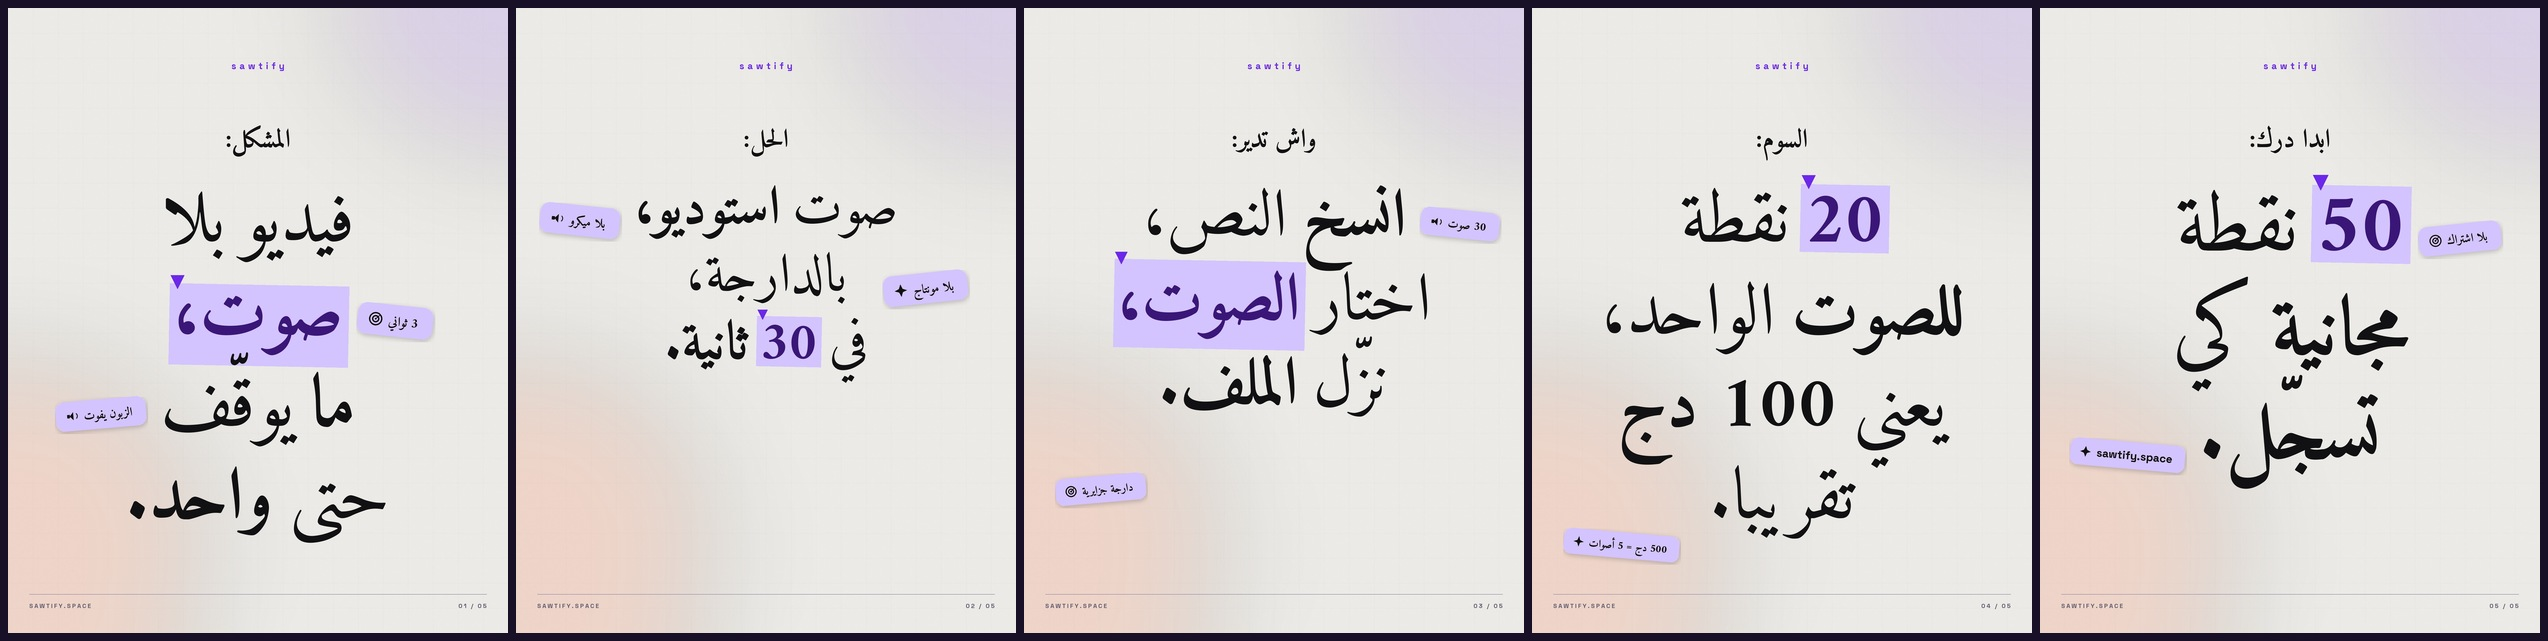
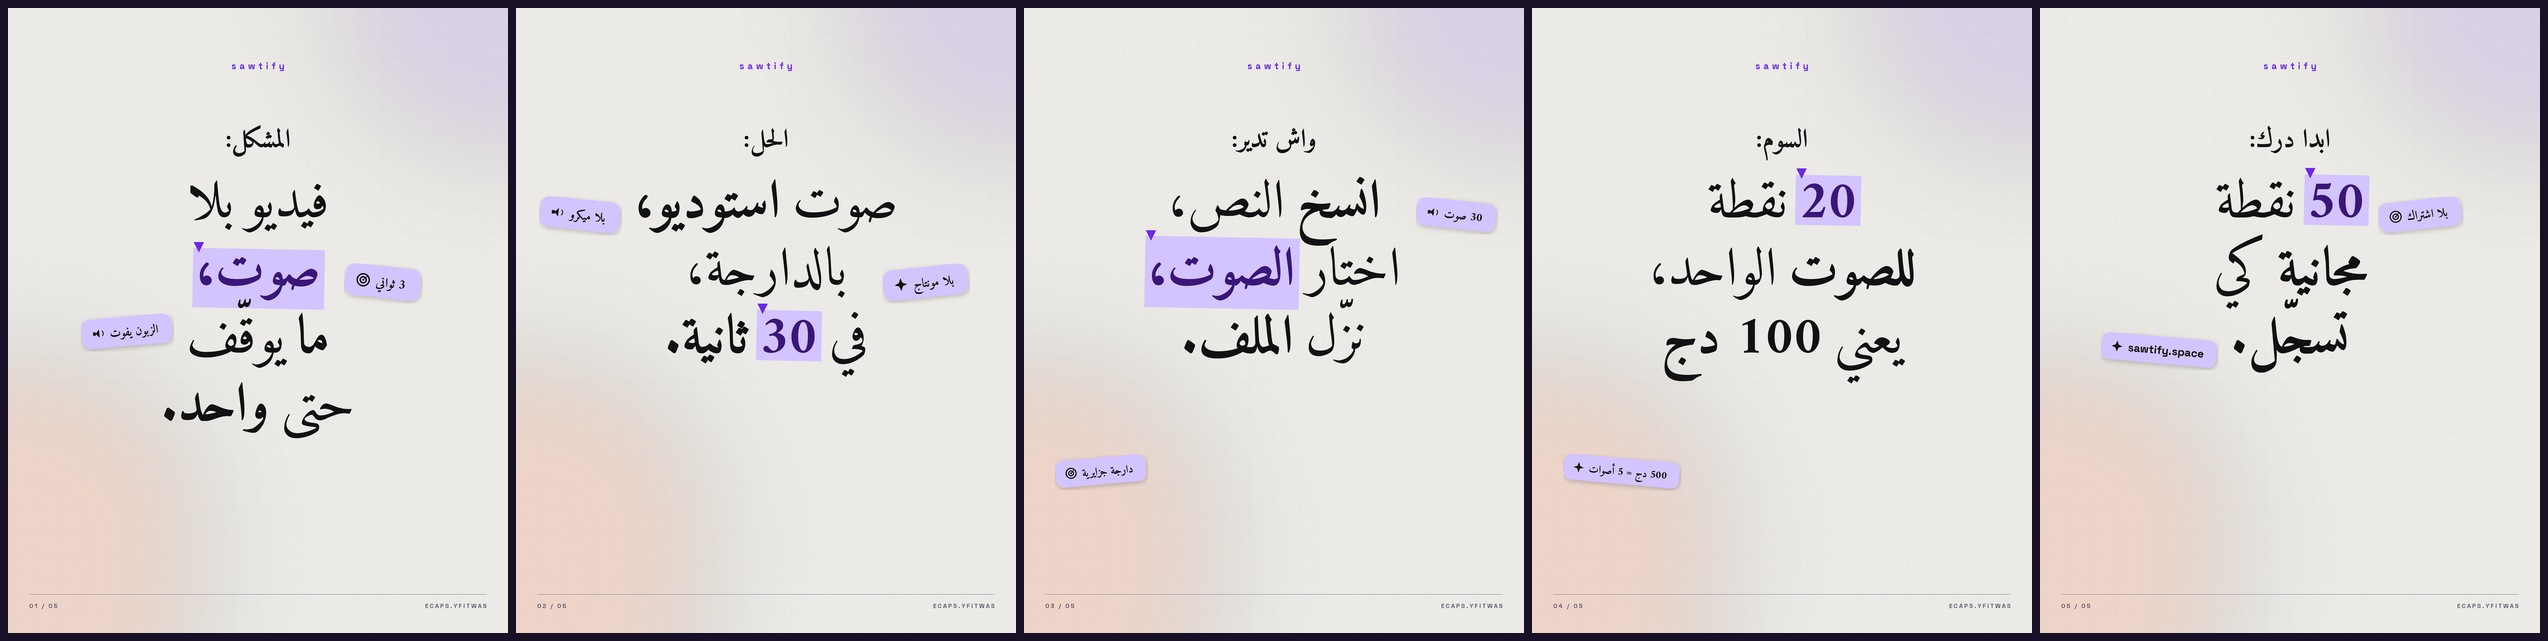
fix(lettre): coherence inter-slides — taille de titre unique par carrousel + grille verticale fixe
- une seule taille de titre calculee pour les 5 slides (116 px dz / 104 px fr)
- haut du bloc fige a 452 px : plus de slide 'au milieu' et d'autre 'plus haute'
- foot miroir en darija (url a droite, pagination a gauche), aligne a gauche en fr
- lignes de copy reequilibrees (4/4/4/3/3) pour que les blocs aient la meme masse

diff --git a/marketing/instagram/lettre.py b/marketing/instagram/lettre.py
@@ -297,51 +297,75 @@ def kicker(base, text, y=300, size=58, font=BLK):
 # ═══════════════════════════════════════════════════════════════════════════
 #  slides
 # ═══════════════════════════════════════════════════════════════════════════
-def footer(base, page, rtl=True):
+def footer(base, page, rtl=True, rule_y=1266, text_y=1296):
     """Pied de page : url à gauche, pagination à droite, en Space Grotesk."""
     d = ImageDraw.Draw(base)
     f = tk._pil(SG_B, 13)
     txt = "SAWTIFY.SPACE"
-    x = 46.0
-    for c in txt:
-        d.text((x * SS, 1296 * SS), c, font=f, fill=(*MUT, 255), anchor="ls")
-        x += d.textlength(c, font=f) / SS + 3.0
-    d.line([46 * SS, 1266 * SS, (W - 46) * SS, 1266 * SS],
+    if rtl:
+        x = W - 46.0
+        for c in txt:
+            x -= d.textlength(c, font=f) / SS
+            d.text((x * SS, text_y * SS), c, font=f, fill=(*MUT, 255), anchor="ls")
+            x -= 3.0
+    else:
+        x = 46.0
+        for c in txt:
+            d.text((x * SS, text_y * SS), c, font=f, fill=(*MUT, 255), anchor="ls")
+            x += d.textlength(c, font=f) / SS + 3.0
+    d.line([46 * SS, rule_y * SS, (W - 46) * SS, rule_y * SS],
            fill=(150, 140, 172, 60), width=int(1.2 * SS))
     num = page
-    x = W - 46.0
-    for c in reversed(num):
-        x -= d.textlength(c, font=f) / SS
-        d.text((x * SS, 1296 * SS), c, font=f, fill=(*MUT, 255), anchor="ls")
-        x -= 3.0
+    if rtl:
+        x = 46.0
+        for c in num:
+            d.text((x * SS, text_y * SS), c, font=f, fill=(*MUT, 255), anchor="ls")
+            x += d.textlength(c, font=f) / SS + 3.0
+    else:
+        x = W - 46.0
+        for c in reversed(num):
+            x -= d.textlength(c, font=f) / SS
+            d.text((x * SS, text_y * SS), c, font=f, fill=(*MUT, 255), anchor="ls")
+            x -= 3.0
+
+
+def _wid(spec, sz, lead, fonts, rtl):
+    return max((g[2] - g[0]) for g in
+               lines_geo(spec["lines"], W / 2, 0, sz, lead, fonts, rtl))
+
+
+def fit_size(spec, fonts, rtl, lead=1.26, cap=176):
+    """Plus grande taille qui tient : largeur utile + hauteur disponible."""
+    n = len(spec["lines"])
+    best = 60
+    for sz in range(60, cap + 1, 2):
+        if _wid(spec, sz, lead, fonts, rtl) > 830:
+            break
+        vis = (n - 1) * sz * lead + 1.20 * sz
+        if vis <= 838:
+            best = sz
+    return best
+
+
+TITLE_TOP = 452.0
+
+
+def block_top(spec, sz, lead):
+    """Le bloc démarre TOUJOURS à la même hauteur : c'est la grille."""
+    return TITLE_TOP
 
 
 def slide(spec, seed=3, rtl=True, fonts=None, page="", pill_font=None,
-          size_default=96):
+          size_default=96, shared_size=None):
     base = paper(seed=seed)
     wordmark(base)
     fonts = fonts or WEIGHT
     pf = pill_font or fonts["b"]
-    size = spec.get("size", size_default)
-    top = spec.get("top", 452)
     lead = spec.get("lead", 1.26)
-    n = len(spec["lines"])
+    size = shared_size or fit_size(spec, fonts, rtl, lead)
+    top = block_top(spec, size, lead)
     kicker(base, spec["kicker"], spec.get("kick_y", 300),
            spec.get("kick_size", 56), fonts["b"])
-
-    def wid(sz):
-        return max((g[2] - g[0]) for g in lines_geo(spec["lines"], W / 2, 0,
-                                                     sz, lead, fonts, rtl))
-
-    # on cherche la plus grande taille qui tienne : sous l'accroche et
-    # au-dessus du pied de page, sans jamais dépasser la largeur utile
-    best = (size, top)
-    for sz in range(60, 180, 2):
-        ty = max(top, 356 + 0.94 * sz)
-        bottom = ty + (n - 1) * sz * lead + 0.46 * sz
-        if wid(sz) <= 830 and bottom <= 1180:
-            best = (sz, ty)
-    size, top = best
 
     geo = lines_geo(spec["lines"], W / 2, top, size, lead, fonts, rtl)
     placed = []
@@ -402,8 +426,7 @@ DZ = {"id": "dz", "seed": 3, "fonts": WEIGHT, "pill_font": AMR_B, "rtl": True,
     dict(kicker="السوم:",
          lines=[[("20", "b", "mark"), ("نقطة", "r", None)],
                 [("للصوت", "b", None), ("الواحد،", "r", None)],
-                [("يعني", "r", None), ("100 دج", "b", None)],
-                [("تقريبا.", "r", None)]],
+                [("يعني", "r", None), ("100 دج", "b", None)]],
          pills=[dict(t="500 دج = 5 أصوات", anchor=(1, "left"), icon="spark",
                      size=23, rot=-5)]),
     dict(kicker="ابدا درك:",
@@ -446,9 +469,8 @@ FR = {"id": "fr", "seed": 23, "fonts": WEIGHT_LAT, "pill_font": SG_B,
                      size=23, rot=5)]),
     dict(kicker="Le prix :",
          lines=[[("20", "b", "mark"), ("points", "r", None)],
-                [("= une voix,", "b", None)],
-                [("environ", "r", None), ("100", "b", None)],
-                [("DA.", "b", None)]],
+                [("=", "r", None), ("une", "b", None), ("voix,", "b", None)],
+                [("environ", "r", None), ("100 DA.", "b", None)]],
          pills=[dict(t="500 DA = 5 voix", anchor=(1, "left"), icon="spark",
                      size=21, rot=-5)]),
     dict(kicker="Commencez :",
@@ -467,11 +489,17 @@ PUBS = [DZ, FR]
 def render(pub):
     d = OUT / pub["id"]
     d.mkdir(parents=True, exist_ok=True)
+    fonts = pub.get("fonts") or WEIGHT
+    rtl = pub.get("rtl", True)
+    # une seule taille de titre pour tout le carrousel : c'est ce qui fait
+    # la cohérence d'une slide à l'autre
+    shared = min(fit_size(sp, fonts, rtl) for sp in pub["slides"])
+    print("  · taille de titre partagée :", shared, "px")
     for i, spec in enumerate(pub["slides"]):
-        img = slide(spec, seed=pub["seed"] + i, rtl=pub.get("rtl", True),
-                    fonts=pub.get("fonts"), page=f"{i + 1:02d} / 05",
-                    pill_font=pub.get("pill_font"),
-                    size_default=pub.get("size", 96)).convert("RGB").resize(
+        img = slide(spec, seed=pub["seed"] + i, rtl=rtl, fonts=pub.get("fonts"),
+                    page=f"{i + 1:02d} / 05", pill_font=pub.get("pill_font"),
+                    size_default=pub.get("size", 96),
+                    shared_size=shared).convert("RGB").resize(
             (W, H), Image.LANCZOS)
         img.save(d / f"{i + 1:02d}.jpg", quality=95, optimize=True, subsampling=1)
         print("  ✓", pub["id"], f"{i + 1:02d}")
